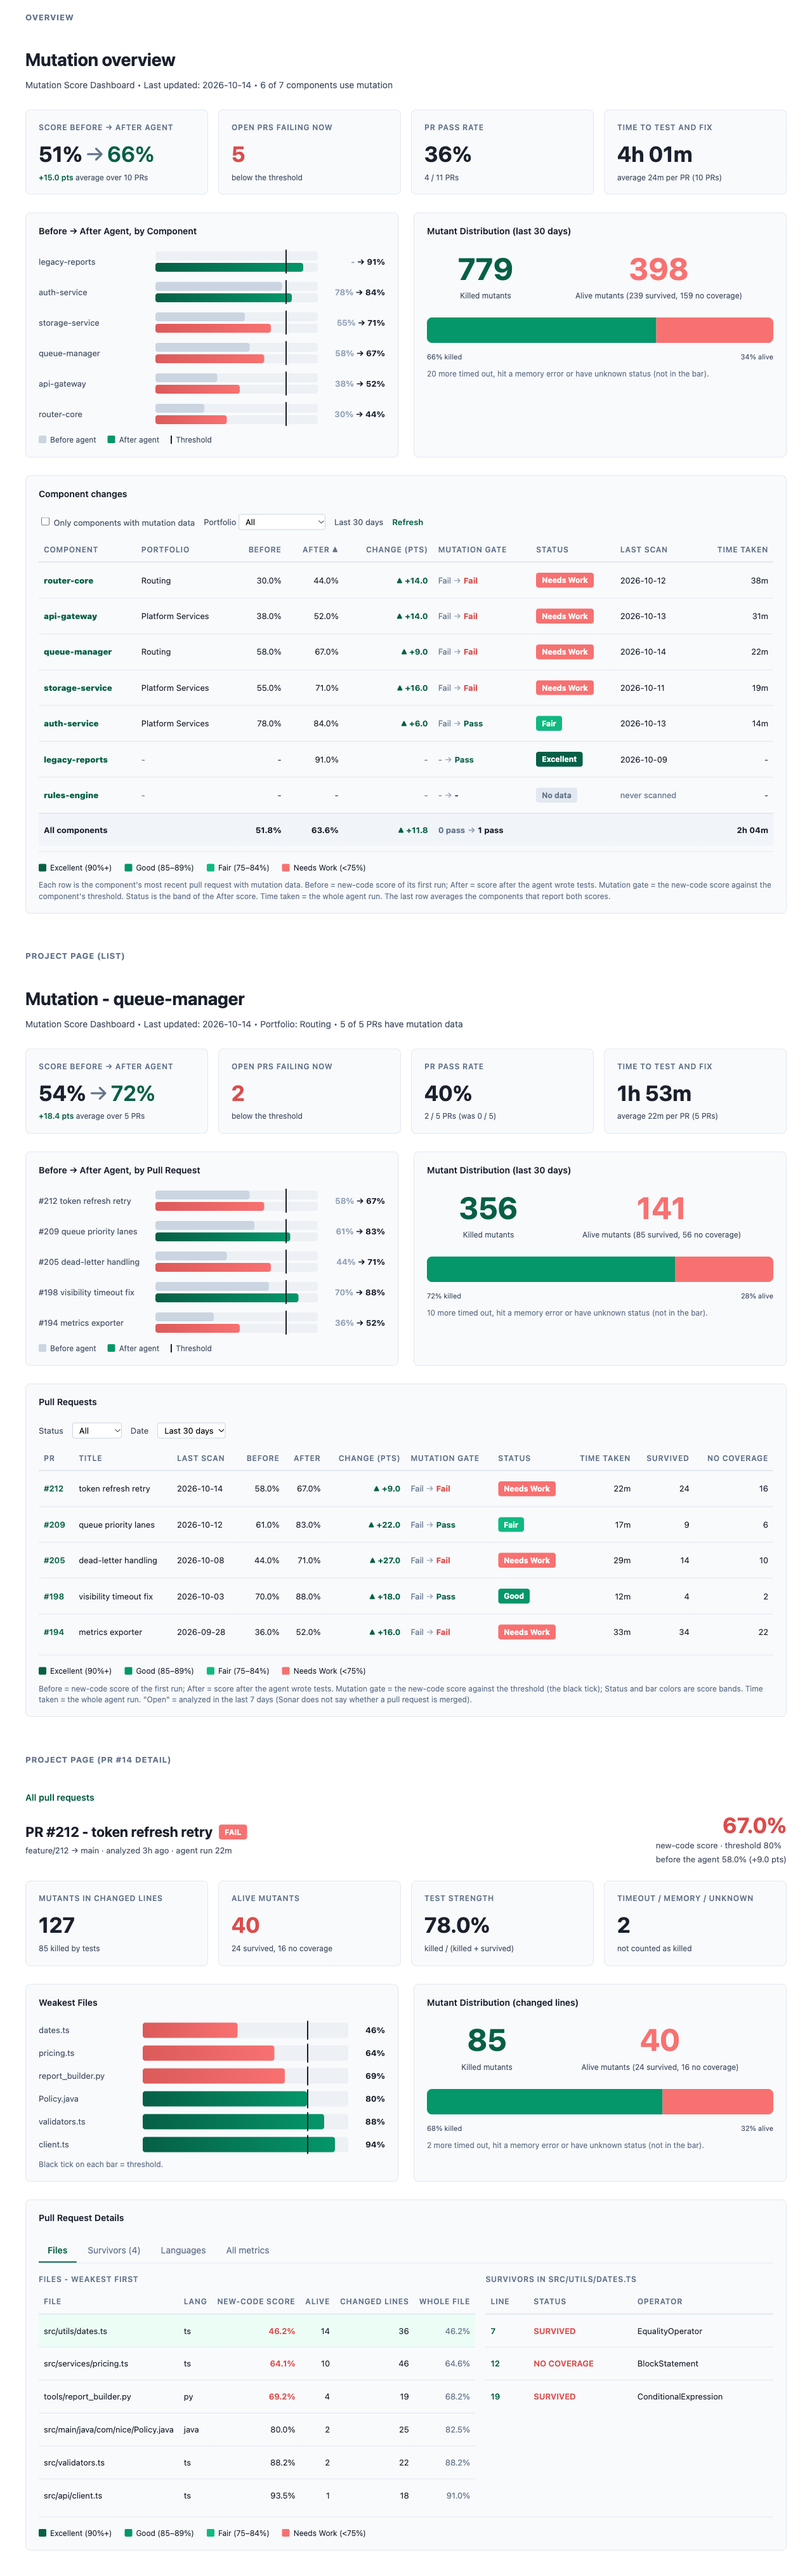
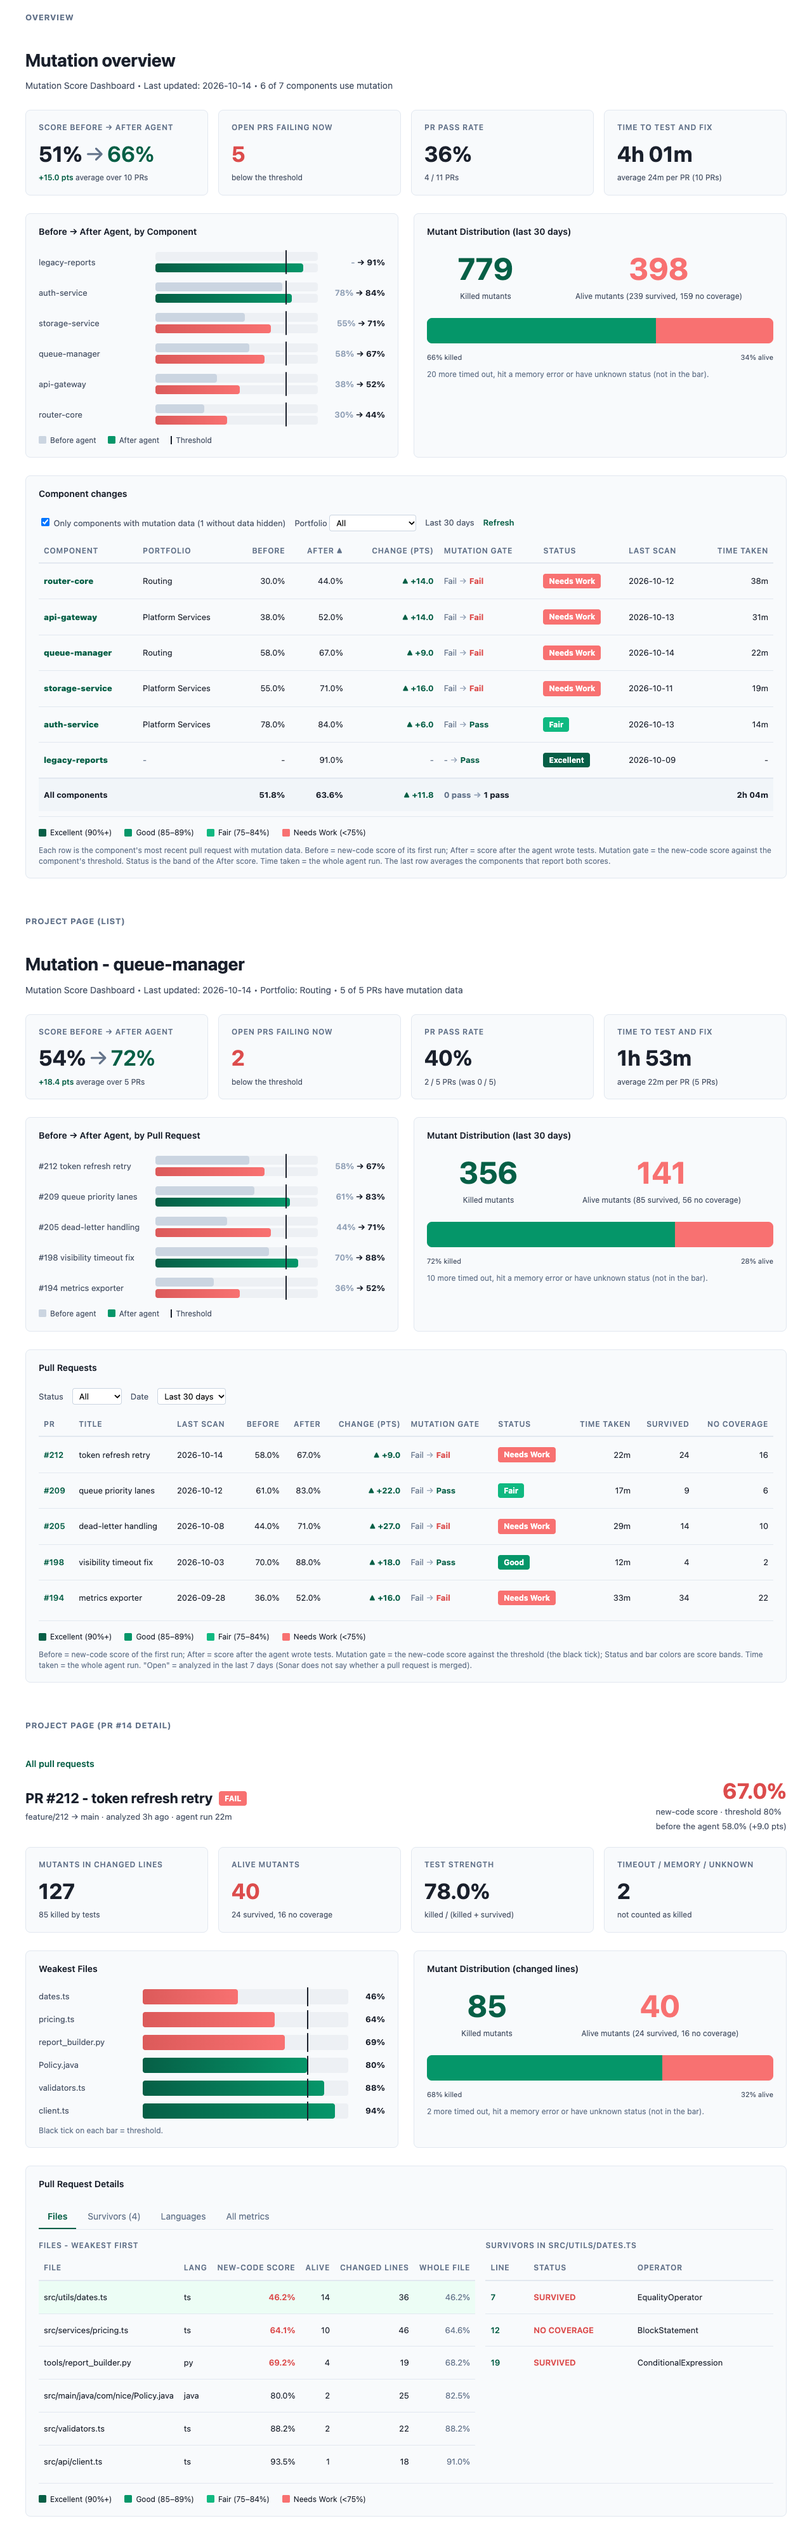
fix(dashboard): hide no-data components by default, batch repaints, adopters first; change from shown values (0.4.1)
Found on sonartest (2,084 projects): the overview listed every project (a 118,000 px page) and
repainted the whole table after each project (over 3 minutes to load). Now components without data
are hidden by default with their count, repaints are batched, and projects that had data load first
(local storage). Load time about 60 s. The change column uses the one-decimal values shown, so a
tie such as 56.25 is not +0.1.

diff --git a/frontend/test/overview.test.ts b/frontend/test/overview.test.ts
@@ -11,7 +11,10 @@ const tile = (name: string) => root.querySelector(`[data-tile="${name}"] .v`)?.t
 const tileSub = (name: string) => root.querySelector(`[data-tile="${name}"] .s`)?.textContent ?? '';
 const total = (i: number) => root.querySelector('tr[data-row="total"]')?.children[i]?.textContent ?? '';
 
+const showAll = () => root.querySelector<HTMLInputElement>('[data-filter="withData"]')!.click();
+
 beforeEach(() => {
+  localStorage.clear();
   document.body.innerHTML = '<div id="r"></div>';
   root = document.getElementById('r')!;
 });
@@ -21,6 +24,46 @@ const sample = () => new FakeData([
   project('policy', [improved('5', 78, 95, 120, { hours: 5, portfolio: 'Platform' })]),
   project('billing', [noData('6'), noData('7')]),
 ]);
+
+describe('a big server', () => {
+  it('repaints in batches, not once per project, and ends with every project loaded', async () => {
+    const many = Array.from({ length: 60 }, (_, i) => project(`p${i}`, [improved(String(i), 50, 70, 60)]));
+    let paints = 0;
+    const obs = new MutationObserver(() => { paints++; });
+    obs.observe(root, { childList: true, subtree: true });
+    mount(new FakeData(many));
+    await flush();
+    obs.disconnect();
+    expect(rows()).toHaveLength(60);
+    expect(paints).toBeLessThan(60 * 3);
+  });
+
+  it('projects that had mutation data load first next time, and are remembered', async () => {
+    const loaded: string[] = [];
+    class Spy extends FakeData {
+      async loadProject(p: { key: string; name: string }) { loaded.push(p.key); return super.loadProject(p); }
+    }
+    const data = () => new Spy([project('a', [noData('1')]), project('b', [improved('2', 50, 70, 60)]), project('c', [noData('3')])]);
+    mount(data());
+    await flush();
+    expect(loaded).toEqual(['a', 'b', 'c']);
+    expect(JSON.parse(localStorage.getItem('mutation-dashboard-adopters:') ?? '[]')).toEqual(['b']);
+    loaded.length = 0;
+    document.body.innerHTML = '<div id="r"></div>';
+    root = document.getElementById('r')!;
+    mount(data());
+    await flush();
+    expect(loaded).toEqual(['b', 'a', 'c']);
+  });
+
+  it('unusable storage never breaks the page', async () => {
+    const spy = vi.spyOn(Storage.prototype, 'getItem').mockImplementation(() => { throw new Error('denied'); });
+    mount(sample());
+    await flush();
+    expect(rows()).toEqual(['timeoff', 'policy']);
+    spy.mockRestore();
+  });
+});
 
 describe('overview honesty and robustness', () => {
   it('a PR with data but no score shows dashes and no gate result, never PASS', async () => {
@@ -101,24 +144,27 @@ describe('overview', () => {
     expect(tileSub('passRate')).toBe('1 / 1 PRs');
   });
 
-  it('default order is weakest After first; components without data last', async () => {
+  it('default order is weakest After first; components without data last once shown', async () => {
     mount(sample());
     await flush();
-    expect(rows()).toEqual(['timeoff', 'policy', 'billing']);
-  });
-
-  it('components without data are visible by default so the adoption gap shows; the filter hides them', async () => {
-    mount(sample());
-    await flush();
-    expect(rows()).toEqual(['timeoff', 'policy', 'billing']);
-    root.querySelector<HTMLInputElement>('[data-filter="withData"]')!.click();
     expect(rows()).toEqual(['timeoff', 'policy']);
+    showAll();
+    expect(rows()).toEqual(['timeoff', 'policy', 'billing']);
   });
 
-  it('filter on and nobody adopted: says so instead of an empty table', async () => {
+  it('components without data are hidden by default, with their count; unchecking shows the adoption gap', async () => {
+    mount(sample());
+    await flush();
+    expect(rows()).toEqual(['timeoff', 'policy']);
+    expect(root.querySelector('.md-filters label')?.textContent).toContain('(1 without data hidden)');
+    showAll();
+    expect(rows()).toEqual(['timeoff', 'policy', 'billing']);
+    expect(root.querySelector('.md-filters label')?.textContent).not.toContain('hidden');
+  });
+
+  it('nobody adopted: says so instead of an empty table', async () => {
     mount(new FakeData([project('billing', [noData('6')])]));
     await flush();
-    root.querySelector<HTMLInputElement>('[data-filter="withData"]')!.click();
     expect(root.textContent).toContain('No components with mutation data');
   });
 
@@ -146,6 +192,7 @@ describe('overview', () => {
   it('shows dashes, not zeros, for components without data', async () => {
     mount(sample());
     await flush();
+    showAll();
     for (const col of ['before', 'after', 'change', 'time']) expect(cell('billing', col)).toBe('-');
     expect(cell('billing', 'gate')).toBe('-→-');
     expect(cell('billing', 'scan')).toBe('never scanned');
@@ -172,6 +219,7 @@ describe('overview', () => {
   it('status shows the score band of the After score; components without data have no band', async () => {
     mount(sample());
     await flush();
+    showAll();
     expect(cell('billing', 'status')).toBe('No data');
     expect(root.querySelector('tr[data-project="timeoff"] [data-col="status"] [data-band]')?.getAttribute('data-band')).toBe('needs');
     expect(root.querySelector('tr[data-project="policy"] [data-col="status"] [data-band]')?.getAttribute('data-band')).toBe('excellent');
@@ -198,6 +246,7 @@ describe('overview', () => {
   it('clicking a sort header re-sorts and toggles direction', async () => {
     mount(sample());
     await flush();
+    showAll();
     const th = root.querySelector<HTMLElement>('th[data-sort="name"]')!;
     th.click();
     expect(rows()).toEqual(['billing', 'policy', 'timeoff']);
@@ -211,9 +260,9 @@ describe('overview', () => {
     expect([...root.querySelectorAll('th[data-sort]')].map((t) => t.getAttribute('data-sort')))
       .toEqual(['name', 'portfolio', 'before', 'after', 'change', 'scan', 'time']);
     root.querySelector<HTMLElement>('th[data-sort="change"]')!.click();
-    expect(rows()).toEqual(['timeoff', 'policy', 'billing']);
+    expect(rows()).toEqual(['timeoff', 'policy']);
     root.querySelector<HTMLElement>('th[data-sort="before"]')!.click();
-    expect(rows()).toEqual(['policy', 'timeoff', 'billing']);
+    expect(rows()).toEqual(['policy', 'timeoff']);
   });
 
   it('the portfolio filter appears when a portfolio exists and narrows the rows', async () => {
@@ -226,8 +275,10 @@ describe('overview', () => {
     expect(rows()).toEqual(['policy']);
     const again = root.querySelector<HTMLSelectElement>('select[data-filter="portfolio"]')!;
     expect(again.value).toBe('Platform');
-    again.value = '\u0000none';
-    again.dispatchEvent(new Event('change'));
+    showAll();
+    const third = root.querySelector<HTMLSelectElement>('select[data-filter="portfolio"]')!;
+    third.value = '\u0000none';
+    third.dispatchEvent(new Event('change'));
     expect(rows()).toEqual(['billing']);
   });
 
@@ -252,6 +303,7 @@ describe('overview', () => {
   it('a component with PRs only outside the window shows no PRs in the last 30 days', async () => {
     mount(new FakeData([project('old', [makePr('1', { hours: 24 * 60 })])]));
     await flush();
+    showAll();
     expect(cell('old', 'scan')).toContain('no PRs in the last 30 days');
   });
 

diff --git a/frontend/src/ui/overview.ts b/frontend/src/ui/overview.ts
@@ -1,4 +1,4 @@
-import { fmtDate, fmtDuration, fmtPct, projectPageUrl } from '../format';
+import { fmtDate, fmtDuration, fmtPct, projectPageUrl, sonarBase } from '../format';
 import {
   distribution, gateOf, hasBefore, inWindow, isNoPrAnalysis, mean, sortProjects, summarizeOverview, summarizeProject,
   type ProjectSummary, type SortDir, type SortKey,
@@ -13,6 +13,31 @@ import {
 const TITLE = 'Mutation overview';
 /** The portfolio filter value for components without a portfolio. */
 const NO_PORTFOLIO = '\u0000none';
+/** Longest wait between repaints while projects stream in. */
+const PAINT_MS = 250;
+const ADOPTERS_KEY = 'mutation-dashboard-adopters:';
+
+/** Keys of the projects that had mutation data on an earlier visit (this browser, this server). Never throws. */
+function knownAdopters(): Set<string> {
+  try {
+    const raw = globalThis.localStorage?.getItem(ADOPTERS_KEY + sonarBase());
+    const list: unknown = raw ? JSON.parse(raw) : [];
+    return new Set(Array.isArray(list) ? list.filter((k): k is string => typeof k === 'string') : []);
+  } catch {
+    return new Set();
+  }
+}
+
+function rememberAdopter(key: string): void {
+  try {
+    const known = knownAdopters();
+    if (known.has(key)) return;
+    known.add(key);
+    globalThis.localStorage?.setItem(ADOPTERS_KEY + sonarBase(), JSON.stringify([...known]));
+  } catch {
+    // storage full or disabled: the order of loading is only an optimization
+  }
+}
 
 /** `num` columns are right-aligned. Gate and Status have no sort key: they are derived from the scores. */
 const COLUMNS: Array<{ key: SortKey | null; label: string; num?: boolean }> = [
@@ -35,10 +60,12 @@ export function renderOverview(root: HTMLElement, data: DataSource, now: () => D
   /** Weakest components first: that is where a manager looks. */
   let sortKey: SortKey = 'after';
   let sortDir: SortDir = 'asc';
-  let onlyWithData = false;
+  /** On by default: a server can hold thousands of projects and almost all of them have no mutation data. */
+  let onlyWithData = true;
   let portfolio = '';
   /** Bumped by every load and by dispose: results of an older load are dropped. */
   let loadId = 0;
+  let paintTimer: ReturnType<typeof setTimeout> | null = null;
 
   const body = h('div', { class: 'md' });
   root.replaceChildren(body);
@@ -85,7 +112,14 @@ export function renderOverview(root: HTMLElement, data: DataSource, now: () => D
       h('td', { class: 'num' }, times.length ? fmtDuration(times.reduce((a, v) => a + v, 0)) : '-'));
   }
 
+  /** While projects stream in, repaint at most every PAINT_MS: one repaint per project is quadratic on a big server. */
+  function schedulePaint(): void {
+    if (paintTimer !== null) return;
+    paintTimer = setTimeout(() => { paintTimer = null; paint(); }, PAINT_MS);
+  }
+
   function paint(): void {
+    if (paintTimer !== null) { clearTimeout(paintTimer); paintTimer = null; }
     const list = [...results.values()];
     if (!loading && list.length > 0 && list.every((r) => isNoPrAnalysis(r.error))) {
       clear(body);
@@ -98,6 +132,7 @@ export function renderOverview(root: HTMLElement, data: DataSource, now: () => D
     const all = list.map((r) => summarizeProject(r, now()));
     const portfolios = [...new Set(all.map((s) => s.portfolio).filter((p): p is string => p !== null))].sort((a, b) => a.localeCompare(b));
     let summaries = all;
+    const hiddenCount = all.filter((s) => s.withData === 0 && s.error === null).length;
     if (onlyWithData) summaries = summaries.filter((s) => s.withData > 0 || s.error !== null);
     if (portfolio) summaries = summaries.filter((s) => (portfolio === NO_PORTFOLIO ? s.portfolio === null : s.portfolio === portfolio));
     summaries = sortProjects(summaries, sortKey, sortDir);
@@ -131,7 +166,7 @@ export function renderOverview(root: HTMLElement, data: DataSource, now: () => D
           h('label', {}, h('input', { type: 'checkbox', 'data-filter': 'withData', ...(onlyWithData ? { checked: 'checked' } : {}), onclick: (e: Event) => {
             onlyWithData = (e.target as HTMLInputElement).checked;
             paint();
-          } }), ' Only components with mutation data'),
+          } }), ` Only components with mutation data${onlyWithData && hiddenCount > 0 ? ` (${hiddenCount} without data hidden)` : ''}`),
           portfolios.length === 0 ? null : h('label', {}, 'Portfolio ',
             h('select', { 'data-filter': 'portfolio', onchange: (e: Event) => { portfolio = (e.target as HTMLSelectElement).value; paint(); } },
               h('option', { value: '', ...(portfolio === '' ? { selected: 'selected' } : {}) }, 'All'),
@@ -169,7 +204,9 @@ export function renderOverview(root: HTMLElement, data: DataSource, now: () => D
     try {
       const list = await data.listProjects();
       if (id !== loadId) return;
-      projects = list;
+      // Projects that had mutation data last time load first, so the page fills in at once on a big server.
+      const known = knownAdopters();
+      projects = [...list].sort((a, b) => Number(known.has(b.key)) - Number(known.has(a.key)));
     } catch (e) {
       if (id !== loadId) return;
       loading = false;
@@ -182,7 +219,8 @@ export function renderOverview(root: HTMLElement, data: DataSource, now: () => D
       const res = await data.loadProject(p);
       if (id !== loadId) return;
       results.set(p.key, res);
-      paint();
+      if (res.prs.some((r) => r.hasData)) rememberAdopter(p.key);
+      schedulePaint();
     }));
     if (id !== loadId) return;
     loading = false;
@@ -191,5 +229,5 @@ export function renderOverview(root: HTMLElement, data: DataSource, now: () => D
   const reload = () => load(true);
   void load(false);
 
-  return { reload, dispose: () => { loadId++; } };
+  return { reload, dispose: () => { loadId++; if (paintTimer !== null) { clearTimeout(paintTimer); paintTimer = null; } } };
 }

diff --git a/frontend/test/model.test.ts b/frontend/test/model.test.ts
@@ -1,7 +1,7 @@
 import { describe, expect, it } from 'vitest';
 import {
   BANDS, bandLabel, bandOf, change, distribution, gateOf, hasBefore, lastUpdated,
-  inWindow, isFailing, isNoPrAnalysis, isOpen, isPassing, mean, sortFilesWeakestFirst, sortProjects, summarizeOverview, summarizeProject, wasPassing,
+  inWindow, isFailing, isNoPrAnalysis, isOpen, isPassing, mean, round1, sortFilesWeakestFirst, sortProjects, summarizeOverview, summarizeProject, wasPassing,
 } from '../src/model';
 import type { FileRow } from '../src/types';
 import { NOW, improved, makePr, noData, project } from './fixtures';
@@ -73,6 +73,14 @@ describe('before and after the agent', () => {
     expect(change(makePr('1'))).toBeNull();
     expect(change(improved('1', 50, 60, 60, { score: null }))).toBeNull();
     expect(hasBefore(noData('1'))).toBe(false);
+  });
+  it('change uses the one-decimal values shown: no improvement is +0.0, a 56.25 tie rounds like Sonar', () => {
+    expect(change(improved('1', 56.25, 56.3, 1))).toBe(0);
+    expect(change(improved('1', 62.5, 87.5, 1))).toBe(25);
+    expect(change(improved('1', 43.75, 68.8, 1))).toBe(25);
+    expect(change(improved('1', 70.04, 69.96, 1))).toBe(0);
+    expect(round1(56.25)).toBe(56.3);
+    expect(round1(0.05)).toBe(0.1);
   });
   it('was passing compares the first score with the threshold, at the edge too', () => {
     expect(wasPassing(improved('1', 80, 90, 1))).toBe(true);

diff --git a/frontend/src/model.ts b/frontend/src/model.ts
@@ -42,9 +42,18 @@ export function hasBefore(r: PrResult): boolean {
   return r.hasData && r.score !== null && r.scoreBefore !== null;
 }
 
-/** New-code score after minus before, in points. Null when either is unknown. */
+/** One decimal, half up: the rounding Sonar applies to the score it shows (JS toFixed and Python round differ on ties). */
+export function round1(n: number): number {
+  return Math.round(n * 10 + 1e-9) / 10;
+}
+
+/**
+ * New-code score after minus before, in points, from the one-decimal values the page shows, so a PR the agent did
+ * not improve reads +0.0 and never +0.1 (a tie such as 56.25 is 56.3 in Sonar's score and was 56.2 in the report).
+ * Null when either is unknown.
+ */
 export function change(r: PrResult): number | null {
-  return hasBefore(r) ? (r.score as number) - (r.scoreBefore as number) : null;
+  return hasBefore(r) ? round1(round1(r.score as number) - round1(r.scoreBefore as number)) : null;
 }
 
 export function wasPassing(r: PrResult): boolean {

diff --git a/README.md b/README.md
@@ -7,12 +7,11 @@ The plugin **runs no mutation testing** and knows nothing about languages. An ex
 mutation tools (Stryker, PIT, mutmut, ...), improves the tests, and writes one JSON report. During the
 normal Sonar scan the plugin reads that file and publishes its numbers.
 
-> **Status: v0.4.0 (dashboard: before and after the agent).** v0.2.0's full metric set (per-file measures with
+> **Status: v0.4.1 (dashboard: before and after the agent).** v0.2.0's full metric set (per-file measures with
 > folder/project aggregation, new-code variants, per-language measures, survivor issues) plus two read-only
 > dashboard pages for pull requests (see "Dashboard"). v0.4.0 shows what the agent changed: the score before and
-> after, the time it took, the scan date and an optional portfolio. Verified on a local SonarQube 26.1 (see
-> "Verification"). The dashboard's pull request views are not yet verified on a server with pull request
-> analysis (sonartest).
+> after, the time it took, the scan date and an optional portfolio. Verified on a local SonarQube 26.1 and, with
+> mock pull request analyses, on sonartest (see "Verification"). Not yet verified with real agent runs on sonartest.
 
 ## Why a plugin
 
@@ -73,7 +72,7 @@ Keys are intentionally not compatible with DevCon5. Equivalents:
 | Alive Total % / Total % | `alive_percent` / `total_percent` |
 | Test Kills / Executions / Kill Ratio | `test_kills` / `tests_executed` / `test_kill_ratio` |
 
-## Dashboard (v0.4.0)
+## Dashboard (v0.4.1)
 
 Two read-only pages, built into the plugin jar, for the pull-request results the agent uploads. Nothing else in
 Sonar changes: no other metric, gate, rule or plugin is touched.
@@ -84,8 +83,11 @@ Sonar changes: no other metric, gate, rule or plugin is touched.
   final, black tick = threshold), a killed / alive "Mutant Distribution" card and a "Component changes" table:
   component, portfolio, before, after, change (pts), mutation gate (Fail -> Pass), status band, last scan date,
   time taken, plus a last row with the average. Every data column sorts (default: weakest After first).
-  Components without mutation data sort last and stay visible (the adoption gap); a checkbox hides them, and a
-  Portfolio filter appears when any component has a portfolio.
+  Components without mutation data are hidden by default (a server can hold thousands of projects; the checkbox
+  label says how many are hidden) and sort last when shown (the adoption gap). A Portfolio filter appears when any
+  component has a portfolio. Projects that had mutation data on an earlier visit load first (kept in the browser's
+  local storage), so a big server fills in quickly; the table repaints in batches while projects stream in.
+  Measured on sonartest (2,084 projects): about 60 s until every project is loaded.
 - **Mutation** (project menu **More > Mutation**): same layout as the overview: tiles, a before -> after bar chart
   per pull request, a killed / alive distribution card and the PR list for the last 30 days (last scan, before,
   after, change, mutation gate, status band, time taken, survived, no coverage; filters by status and date). Click
@@ -97,7 +99,7 @@ Sonar changes: no other metric, gate, rule or plugin is touched.
 ![Dashboard mock](docs/screenshots/dashboard-dev-harness.png)
 
 Definitions (the same on every page): **before** = `new_mutation_score_before`, the new-code score of the agent's
-first run; **after** = `new_mutation_score`, the final score; **change** = after minus before, in points;
+first run; **after** = `new_mutation_score`, the final score; **change** = after minus before, in points, from the one-decimal values shown (ties round up, like Sonar);
 **mutation gate** = the new-code score against `mutation_threshold`, before and after the agent; **status band** =
 Excellent (90%+), Good (85-89%), Fair (75-84%), Needs Work (<75%) of the after score (a presentation aid; the quality
 gate is still the threshold); **component row** = the component's most recent PR with mutation data (its scan date,
@@ -301,8 +303,16 @@ Dashboard (v0.3.0): both pages load and render in Sonar's UI and call the real w
 pull request analysis, so the PR endpoint answers 404 and the pages show "unavailable" with a retry); the full
 views are checked with the local harness and the frontend unit tests.
 
-Still open: the dashboard against real pull request analyses (sonartest), a second Sonar version, and a run on
-sonartest.
+sonartest (SonarQube Server 2026.1.2 Enterprise, plugin 0.4.0 installed), 2026-10-14: six mock pull request
+analyses were scanned into `qa-rm-testing-gates` (threshold 80) and read back through the web API. The gate
+followed the score: 87.5% and exactly 80.0% passed; 78.9%, 68.8% and 56.3% failed on `new_mutation_score`; a
+report without the run facts showed `-` for before and time. Both pages were opened in a browser against the live
+API: tiles, before/after bars, gate transitions, status bands, last scan and time taken all matched the uploaded
+numbers. It also showed what a server with 2,084 projects needs: no-data components hidden by default, batched
+repaints and adopters loading first (all in 0.4.1; the first load went from over 3 minutes to about 60 s). A
+tie such as 56.25 was +0.1 on a PR the agent had not improved; the agent now rounds ties up too.
+
+Still open: the dashboard with real agent runs on sonartest and a second Sonar version.
 
 To repeat on any server: scan a project that sets `sonar.mutation.reportPath`, then check
 `GET /api/measures/component?component=<key>&metricKeys=mutation_score,new_mutation_score` and
